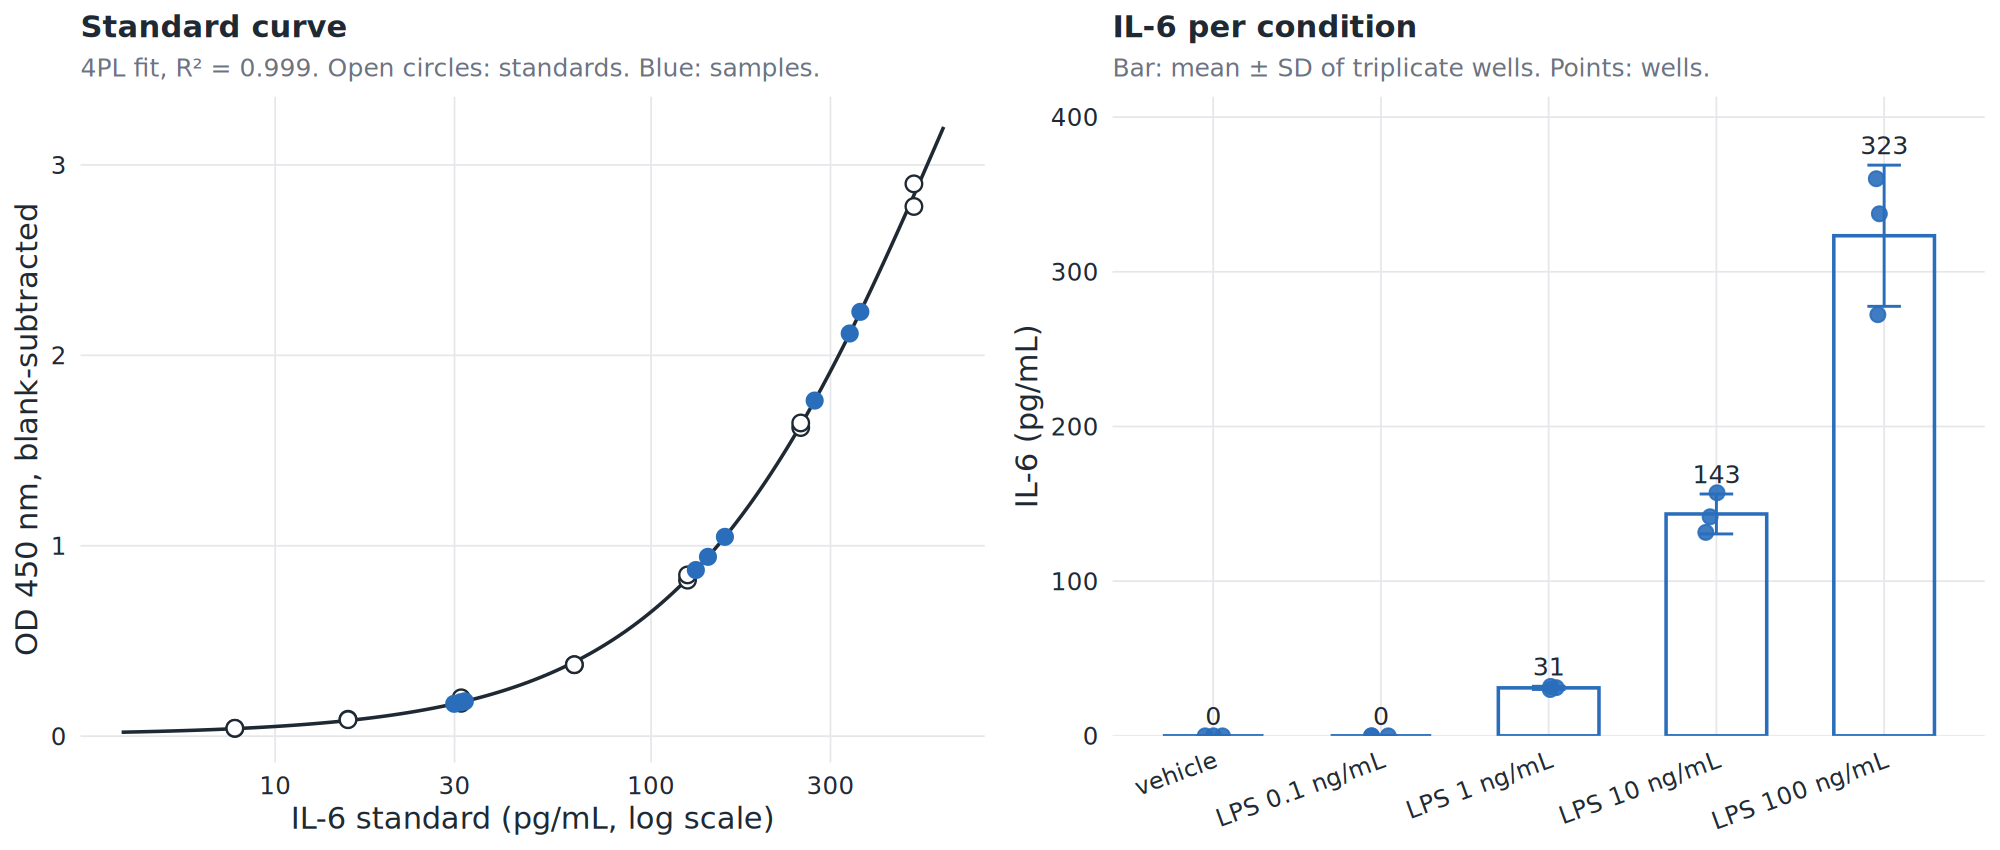
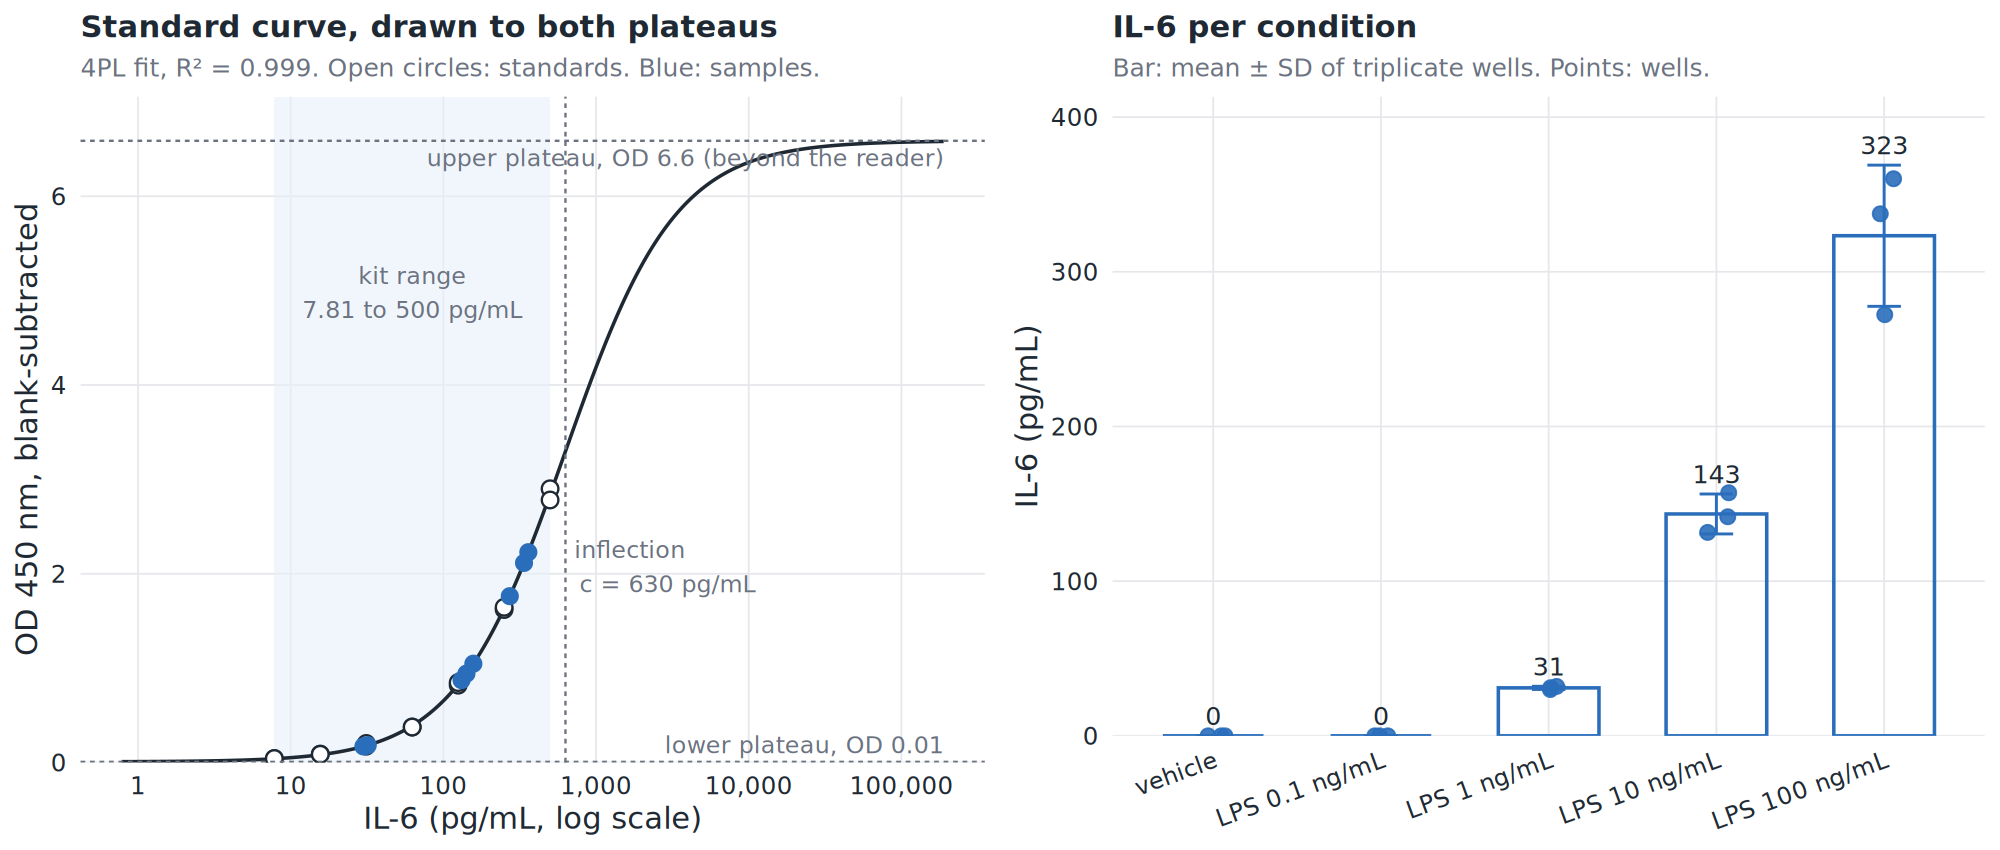
ELISA worked example: draw the standard curve to both plateaus
The 4PL fit is now drawn far beyond the standards, with the kit range shaded
and the plateaus and inflection marked, so the S-shape is visible for
teaching. P06 explains what the extended curve shows.

diff --git a/protocols/P06_elisa.md b/protocols/P06_elisa.md
@@ -94,8 +94,11 @@ and the analysis is [`code/elisa/elisa_standard_curve.R`](../code/elisa/elisa_st
 
 ![IL-6 ELISA worked example: standard curve and IL-6 per LPS dose](figures/P06_il6_worked_example.png)
 
-What you see: the standard curve is close to linear over the kit range and a
-four-parameter logistic fit describes it (R² 0.999). Vehicle and 0.1 ng/mL LPS are
+What you see: the curve is drawn far beyond the standards so that the whole S of the
+four-parameter logistic fit is visible (R² 0.999). The kit range, shaded, sits on the
+lower limb, which is why it looks close to linear on this log axis; the inflection is
+at about 630 pg/mL and the upper plateau at OD 6.6 is beyond what the reader can
+measure, so a sample above the top standard cannot be back-calculated, only diluted. Vehicle and 0.1 ng/mL LPS are
 below the lowest standard, 1 ng/mL gives about 30 pg/mL, 10 ng/mL about 140 pg/mL
 and 100 ng/mL about 320 pg/mL, with triplicate wells within 15%. The 100 ng/mL
 point is the LPS control of P05: a neat supernatant lands in the upper third of the
